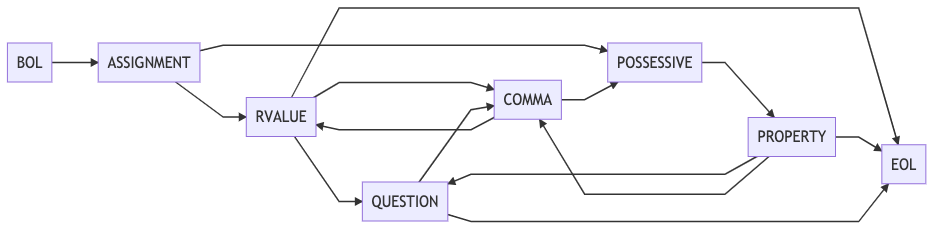
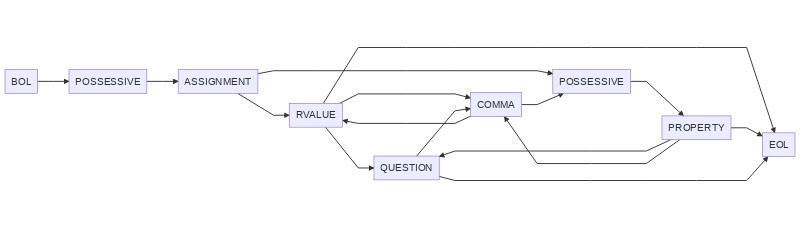
update documentation

Changed region(s): [[0.0, 0.1228, 1.0, 0.9825], [0.3438, 0.0307, 0.9375, 0.1535], [0.625, 0.8289, 0.7812, 0.8596]]

diff --git a/documentation/manual.md b/documentation/manual.md
@@ -152,17 +152,17 @@ Like multi-line strings, spacing is not important, but you can realign items usi
 
 All arrays (and strings) can be treated like associative arrays.
 
-There are three ways of addressing an array:
+There are three ways of accessing array elements:
 
 * Numeric index: `[integer][counter]目`, where available counters are: `つ`, `人`, `個`, `件`, `匹`, and `文字`. Example: `ホゲの 1つ目`
 * Key name: a simple string which may include interpolation. Example: `ホゲの 「キー名」`
-* Key variable: using any previously-defined variable, including special globals `それ` and `あれ`. Example: `ホゲの 変数`
+* Key variable: any previously-defined variable, including special globals `それ` and `あれ`. Example: `ホゲの 変数`
 
-Numeric indices are 1-based, due to the semantic meaning in Japanese. The first element (0th index) is "1つ目", there is no "0つ目". However, addressing the array by key name or variable is 0-based as usual.
+Numeric indices are 1-based, due to the semantic meaning in Japanese. The first element (0th index) is "1つ目", there is no "0つ目". However, accessing the array by key name or variable is 0-based as usual.
 
 Accessing an array with a non-existent key (or out-of-bounds) will return null.
 
-You may have noticed that this means that arrays can be addressed by either numeric or string keys. In fact, all keys are stored internally as "(floated) strings". The following addresses are all equivalent:
+You may have noticed that this means that arrays can be accessed by either numeric or string keys. In fact, all keys are stored internally as "(floated) strings". The following accessors are all equivalent:
 
 ```
 ホゲの 1つ目
@@ -199,9 +199,9 @@ Unlike most other cases involving numerics, full-width numbers are not treated l
 ホゲの 「０」
 ```
 
-Addressing arrays with other types of variables will stringify them as keys. In particular, True and talse will be stringified as はい and いいえ, respectively, and null is treated as an empty string.
+Assigning array elements with other types of variables as keys will stringify them. In particular, `True` and `False` will be stringified as `はい` and `いいえ`, respectively, and null is treated as an empty string.
 
-Newly added keys will generally remain in insertion order, with new values taking the next consecutive integer key following the largest numeric key.
+Newly added elements will generally remain in insertion order, with new key values taking the next consecutive integer key following the largest numeric key.
 
 Example:
 
@@ -214,7 +214,7 @@ Example:
 例の配列に 「お」を 押し込む ※ {0: "あ", "ほげ": "い", 4.6: "う", "ふが": "え", 5: "お"}
 ```
 
-Because elements can be added freely with any index, any operation touching the front of an array will cause numeric keys to be renumbered.
+Because elements can be added freely with any numeric index, any operation touching the front of an array will cause numeric keys to be renumbered.
 
 Example:
 
@@ -233,8 +233,8 @@ Example:
 In the case of concatenation:
 
 * All numeric indices in the source array are renumbered starting from last numeric index of the target array
-* Source array string-keyed values will overwrite target array string-keyed values
-* Otherwise, target arrays keys and insertion order is retained
+* If any string keys in the source array are also present in the target array, the values of the source array will overwrite those in the target array
+* Otherwise, target arrays keys and insertion order are retained
 
 Example:
 
@@ -257,7 +257,7 @@ Example:
 ※ {0: "あ", "ほげ": "き", 4.6: "う", "ふが": "え", 5: "か", 6: "く", "ぴよ": "け"}
 ```
 
-While this may seem complicated at first, it is usually not common to mix numeric and string keys in practice.
+While this may seem complicated at first, in practice it is usually not common to mix numeric and string keys.
 
 #### Length
 

diff --git a/documentation/nfsm.md b/documentation/nfsm.md
@@ -6,27 +6,36 @@ The diagrams below describe the different sequences supported by 金魚草's gra
 
 ![assignment](./nfsm/assignment.png)
 
-`BOL ASSIGNMENT ( RVALUE | ( POSSESSIVE PROPERTY ) ) QUESTION ? ( COMMA ( RVALUE | ( POSSESSIVE PROPERTY ) ) QUESTION ? ) * EOL`
+```
+BOL
+POSSESSIVE ?
+ASSIGNMENT
+( RVALUE | ( POSSESSIVE PROPERTY ) )
+QUESTION ?
+( COMMA ( RVALUE | ( POSSESSIVE PROPERTY ) ) QUESTION ? ) *
+EOL
+```
 
 ```mermaid
 graph LR
-  BOL --> ASSIGNMENT
+  BOL --> POSSESSIVE_1[POSSESSIVE]
+  POSSESSIVE_1[POSSESSIVE] --> ASSIGNMENT
 
   ASSIGNMENT --> RVALUE
-  ASSIGNMENT --> POSSESSIVE
+  ASSIGNMENT --> POSSESSIVE_2[POSSESSIVE]
 
   RVALUE --> EOL
   RVALUE --> QUESTION
   RVALUE --> COMMA
 
-  POSSESSIVE --> PROPERTY
+  POSSESSIVE_2[POSSESSIVE] --> PROPERTY
 
   PROPERTY --> EOL
   PROPERTY --> QUESTION
   PROPERTY --> COMMA
 
   COMMA --> RVALUE
-  COMMA --> POSSESSIVE
+  COMMA --> POSSESSIVE_2[POSSESSIVE]
 
   QUESTION --> COMMA
   QUESTION --> EOL

diff --git a/documentation/about.md b/documentation/about.md
@@ -22,7 +22,7 @@ That said, I think 金魚草 is still fun to play around with as an [esoteric la
 
 * From **Ruby**: you can suffix a `?` to the end of any variable or function call to have its value or return value cast to a boolean, similar to Ruby's convention of appending a question mark to functions to imply the return of a boolean.
 
-* From **PHP**: all arrays can freely be treated as associative arrays (hashes) and, while not recommended, you can mix numeric and string keys.
+* From **PHP**: arrays and associative arrays are internally "ordered maps" and, while not recommended, you can mix numeric and string keys.
 
 General concepts:
 
